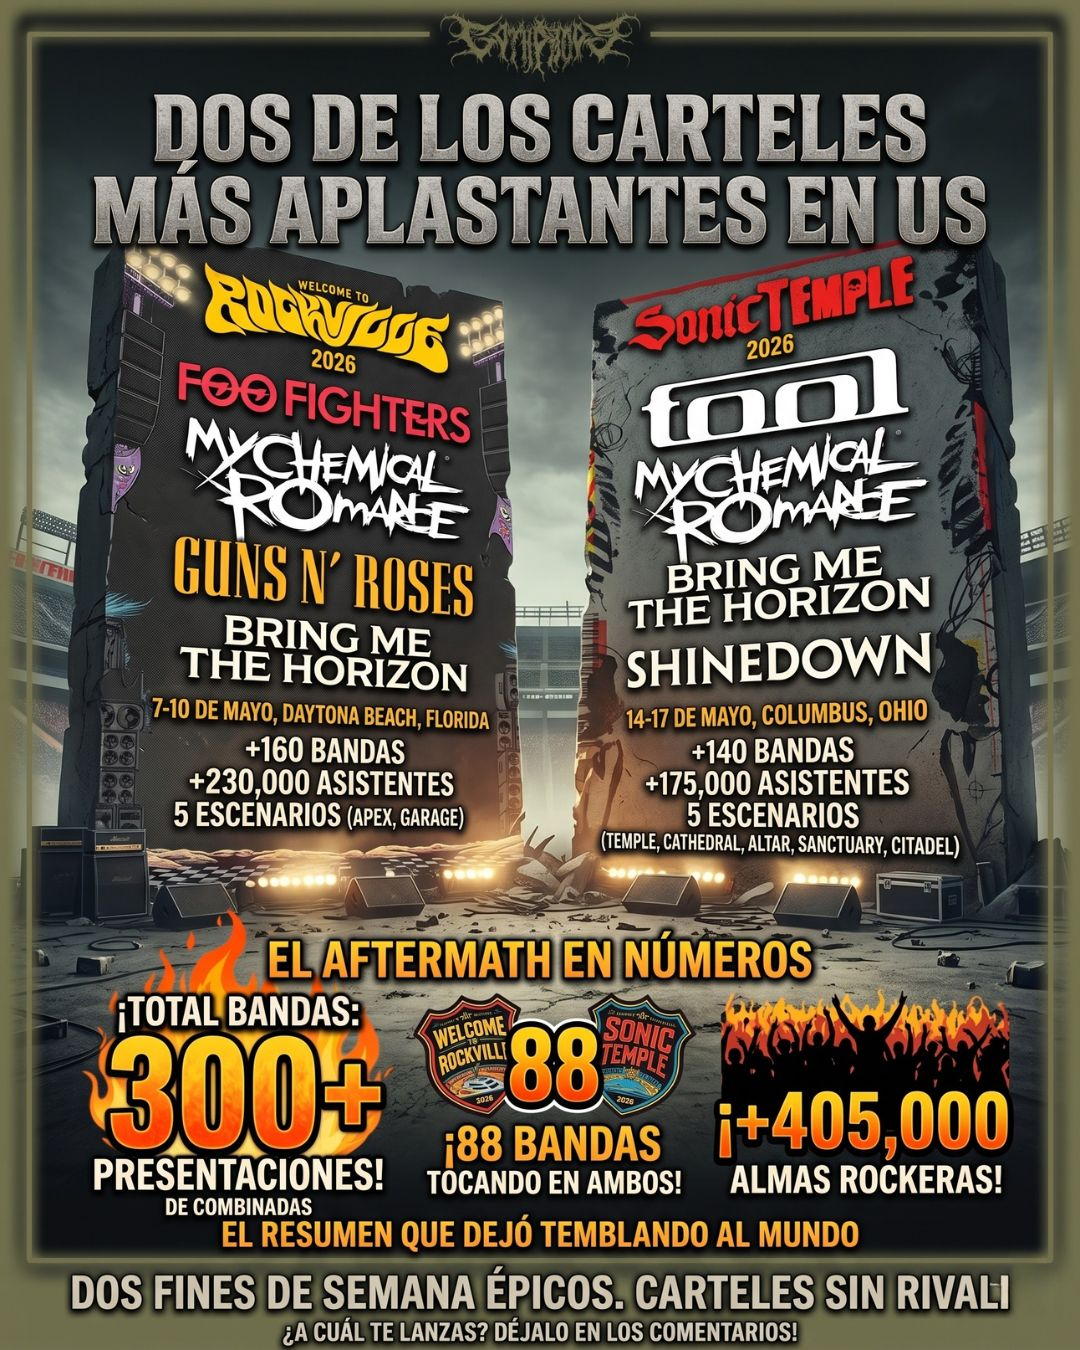
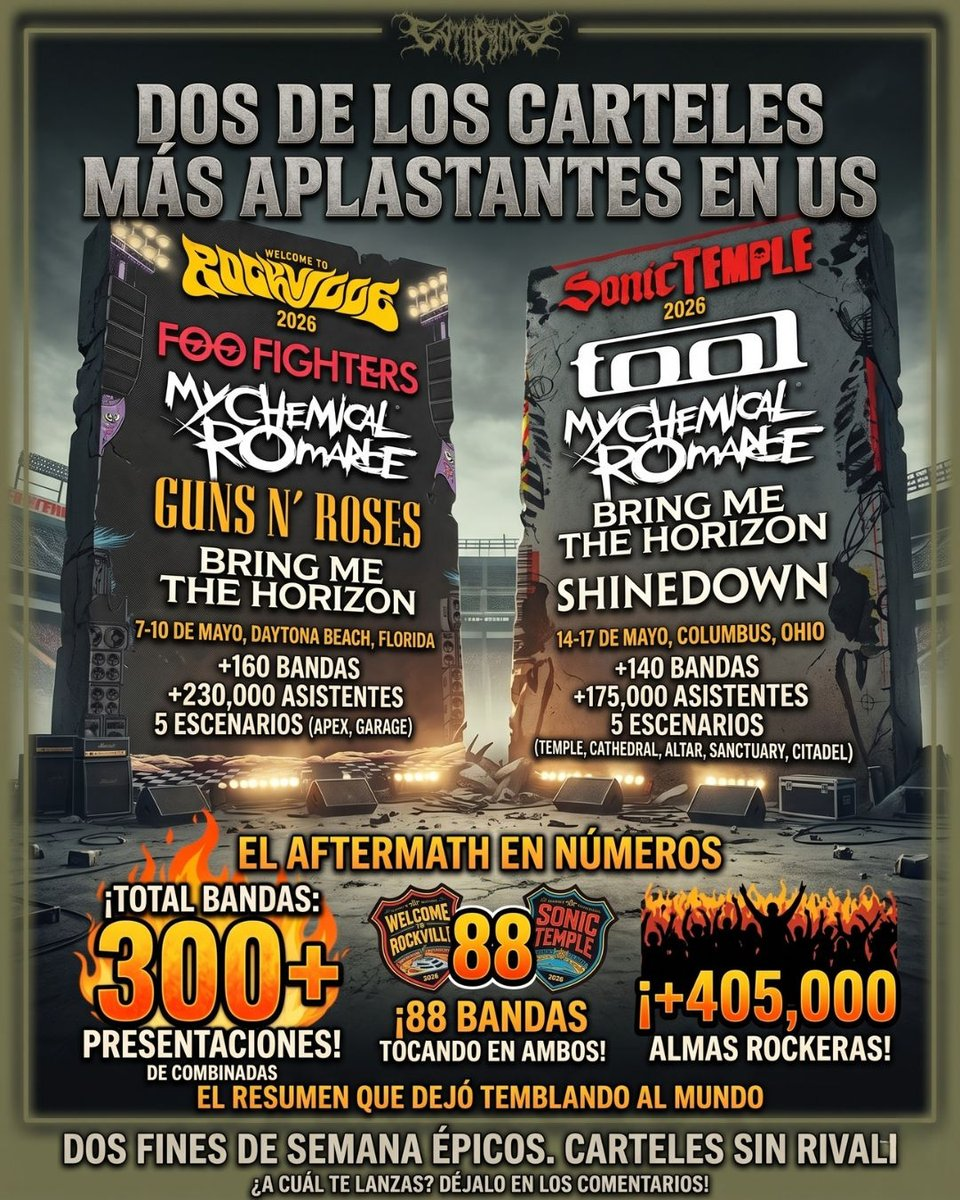
git add

Changed region(s): [[0.4062, 0.74, 0.4688, 0.8017], [0.2812, 0.2467, 0.3125, 0.2775], [0.2188, 0.4008, 0.25, 0.4317]]

diff --git a/compress_images.py b/compress_images.py
@@ -1,0 +1,53 @@
+import os
+from PIL import Image
+
+def compress_directory(dir_name):
+    max_dim = 1200
+    for root, dirs, files in os.walk(dir_name):
+        for file in files:
+            if file.lower().endswith(('.png', '.jpg', '.jpeg')):
+                filepath = os.path.join(root, file)
+                try:
+                    size_kb = os.path.getsize(filepath) / 1024
+                    if size_kb > 300:  # Only compress if larger than 300KB
+                        img = Image.open(filepath)
+                        modified = False
+                        
+                        # Resize if too large
+                        if img.width > max_dim or img.height > max_dim:
+                            img.thumbnail((max_dim, max_dim), Image.Resampling.LANCZOS)
+                            modified = True
+                        
+                        if filepath.lower().endswith('.png'):
+                            # For PNGs, if they are massive (e.g. > 1MB), they are likely photos saved as PNG.
+                            # We can convert them to RGB and save as optimized JPG but keeping the same .png extension 
+                            # so we don't break the database references.
+                            # Browsers don't care about the extension, they read the magic bytes.
+                            if size_kb > 1000:
+                                if img.mode in ('RGBA', 'P', 'LA'):
+                                    # Create a white background
+                                    bg = Image.new('RGB', img.size, (255, 255, 255))
+                                    if img.mode == 'RGBA':
+                                        bg.paste(img, mask=img.split()[3])
+                                    else:
+                                        bg.paste(img)
+                                    img = bg
+                                else:
+                                    img = img.convert('RGB')
+                                img.save(filepath, 'JPEG', quality=85, optimize=True)
+                                print(f"Compressed heavy PNG to JPEG format (kept .png ext): {filepath} (Was {size_kb:.1f}KB)")
+                            else:
+                                if modified:
+                                    img.save(filepath, 'PNG', optimize=True)
+                                    print(f"Resized and optimized PNG: {filepath} (Was {size_kb:.1f}KB)")
+                        else:
+                            if img.mode != 'RGB':
+                                img = img.convert('RGB')
+                            img.save(filepath, 'JPEG', quality=85, optimize=True)
+                            print(f"Optimized JPG: {filepath} (Was {size_kb:.1f}KB)")
+                except Exception as e:
+                    print(f"Error compressing {filepath}: {e}")
+
+compress_directory('assets')
+compress_directory('updates')
+print("Done compressing images.")
